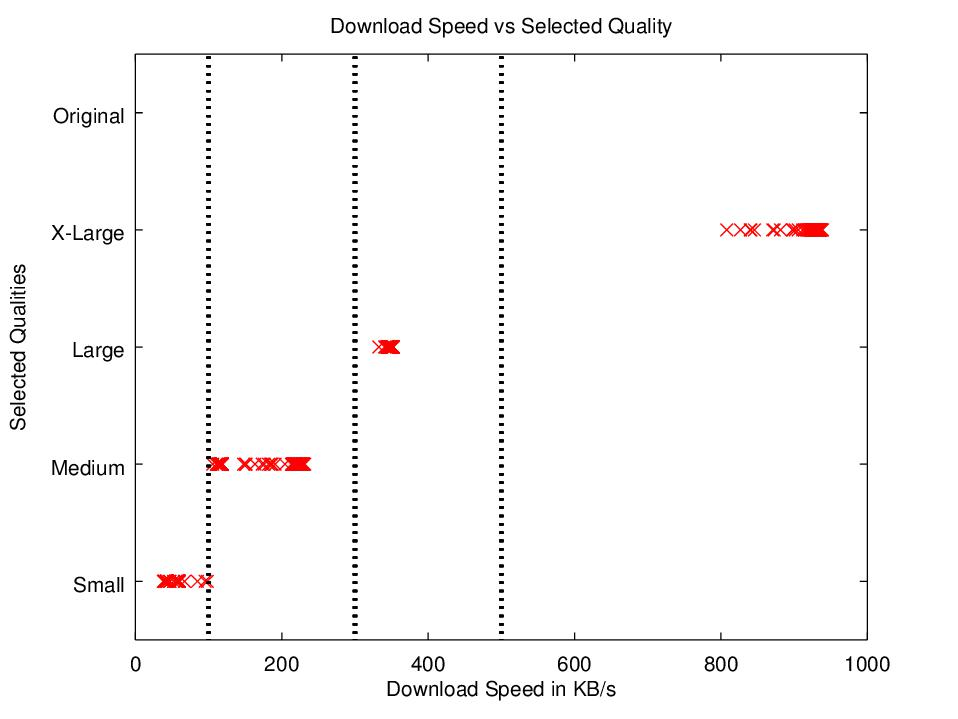
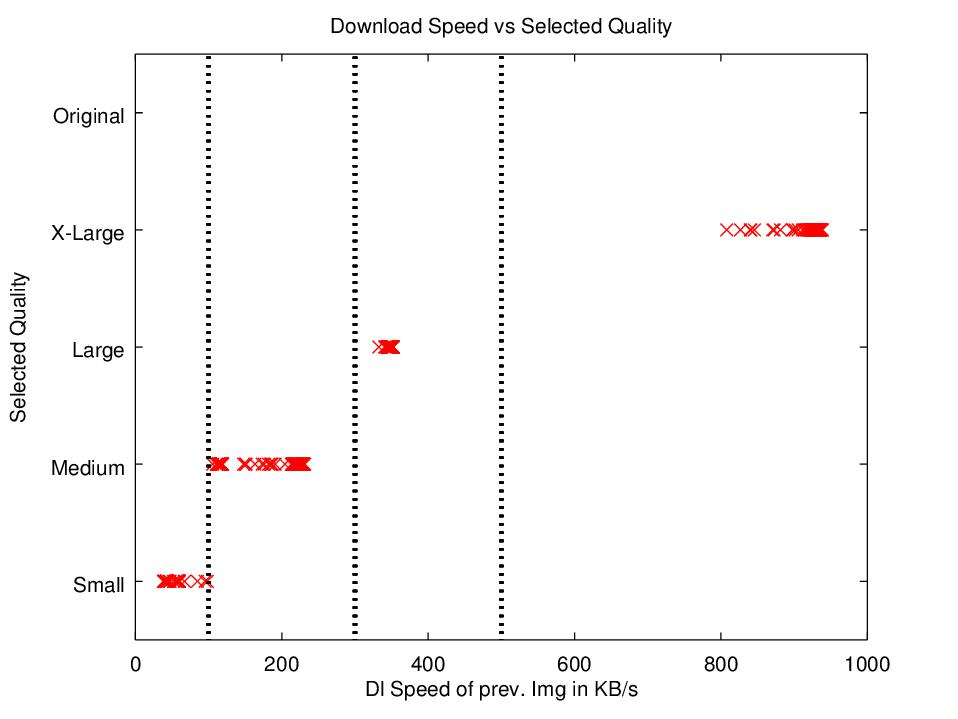
vorarbeit für donnerstag (finale messungen)

Changed region(s): [[0.3633, 0.9485, 0.666, 0.9791], [0.0, 0.3672, 0.0303, 0.612]]

diff --git a/public/scripts/serverSelection.js b/public/scripts/serverSelection.js
@@ -122,7 +122,7 @@ function getLatency(ret, count) {
        $readyForTesting=true;
        $startup=false;
     }
-    sendServerLog("Set_New_Server "+$server+ " Mode "+$serverMode + " Latency "+ $latency);
+    sendServerLog("Set_New_Server "+$server+ " Mode "+$serverMode + " Latency "+ $latency + " AllLatencies " + $latencyArray);
   }
 };
 

diff --git a/phantomtest.js b/phantomtest.js
@@ -1,6 +1,6 @@
 var tests = ['radio_ownsrcset', 'radio_qtpt', 'radio_qtptotf', 'radio_uncompressed', 'radio_large', 'radio_medium', 'radio_small'];
 var numberOfTestPictures = 10;
-var numberOfTestRuns = 10;
+var numberOfTestRuns = 100;
 
 
 function justWait(time,callback){

diff --git a/Matlab/eval.m b/Matlab/eval.m
@@ -12,7 +12,7 @@ screen_sizes = [320 640 1024 2048 4096]
 
 algorithms= {'\tptOTF' '\tptBackground' '\ownSrcSet' '\allgemein' '\ownSrcSetvalidate'}
 
-algorithm=algorithms{5}
+algorithm=algorithms{1}
 
 runs=[1];
 for j=runs
@@ -30,17 +30,18 @@ for j=runs
 
             fileID = fopen(current_file)
             %Client
-            C = textscan(fileID,'%*d %*s %*s %*s %s %*s %s %*s %d %*s %d %*s %f %*s %d %*s %s %*s %*s %*s','HeaderLines',1);
+            C = textscan(fileID,'%f %*s %*s %*s %s %*s %s %*s %d %*s %d %*s %f %*s %d %*s %s %*s %*s %*s','HeaderLines',1);
             fclose(fileID);
             %celldisp(C);
 
-            quality{j} = C{1};
-            qualityMode{j} = C{2};
-            loadTimeMS{j} = C{3};
-            imgSizeByte{j} = C{4};
-            tptKBs{j} = C{5};
-            picNo{j} = C{6};
-            serverAddress{j} = C{7};
+            timestamp{j}     = C{1}.-C{1}(1);
+            quality{j}       = C{2};
+            qualityMode{j}   = C{3};
+            loadTimeMS{j}    = C{4};
+            imgSizeByte{j}   = C{5};
+            tptKBs{j}        = C{6};
+            picNo{j}         = C{7};
+            serverAddress{j} = C{8};
 
 
             for g=1:size(quality{j})
@@ -116,7 +117,7 @@ for j=runs
                 xlim([40 3500]);
                 ylim([0.5 5.5]);
                 xlabel('Screen Width');
-                ylabel('Selected Qualities');           
+                ylabel('Selected Quality');           
                 title ('Screen Width vs Selected Quality');
 
                 %plot([320 320], [0.5 5.5], 'LineWidth',2,'Color','black','LineStyle',':' );
@@ -148,7 +149,9 @@ for j=runs
             end
 
             if(strcmp(algorithm,'\tptOTF'))
-                %Max downlink speed vs Bildauflösung
+            
+                %Validate
+
                 figure(3); hold all; box on; 
                 Y=[1 2 3 4 5];
                 %X=[0.5 2 3 8 12];
@@ -163,8 +166,8 @@ for j=runs
                 plot([100 100], [0.5 5.5], 'LineWidth',2,'Color','black','LineStyle',':' );
                 plot([300 300], [0.5 5.5], 'LineWidth',2,'Color','black','LineStyle',':' );
                 plot([500 500], [0.5 5.5], 'LineWidth',2,'Color','black','LineStyle',':' );
-                xlabel('Download Speed in KB/s');
-                ylabel('Selected Qualities');           
+                xlabel('Dl Speed of prev. Img in KB/s');
+                ylabel('Selected Quality');           
                 title ('Download Speed vs Selected Quality');
             end
 
